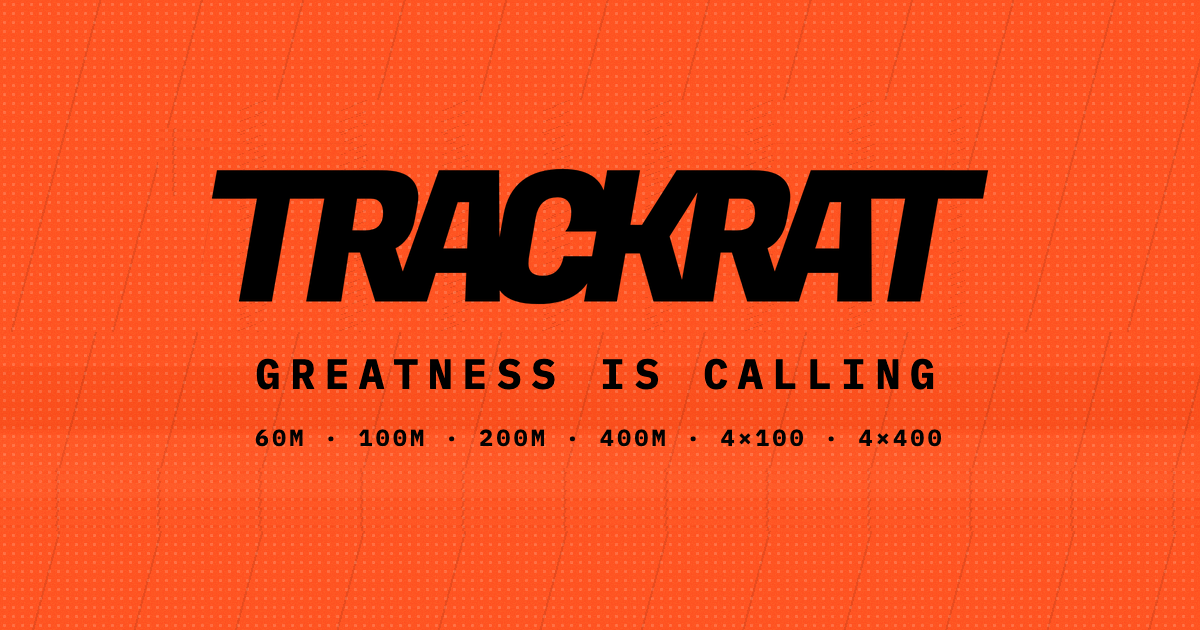
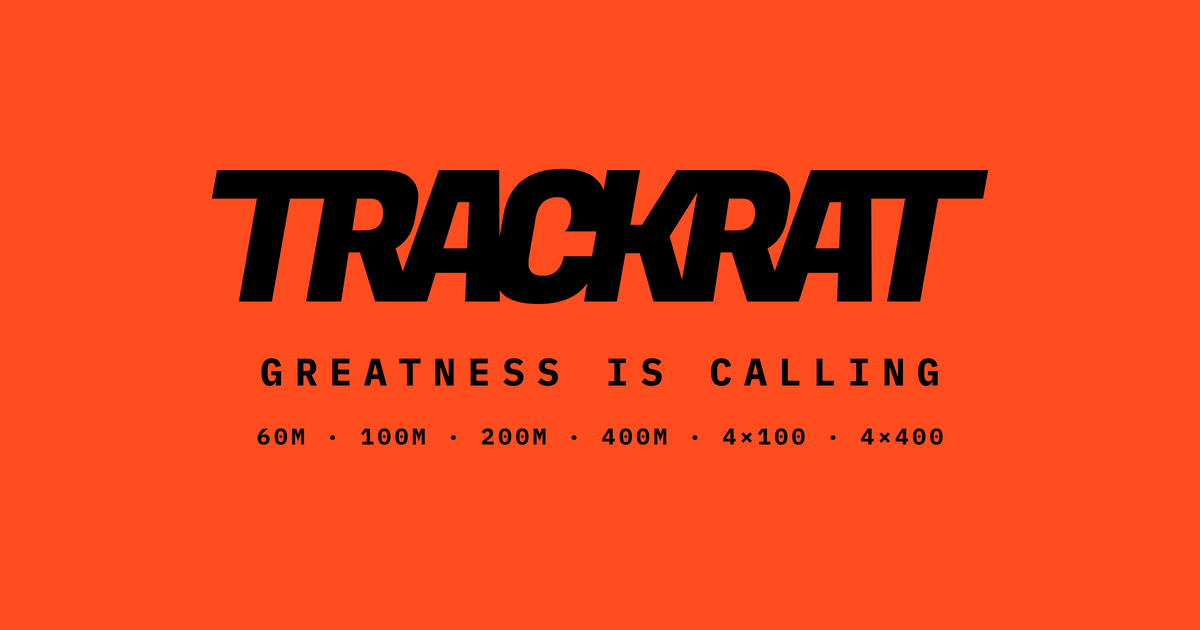
Two heats for every race over four entries, and a flat orange OG image
Heats used to start only once a race passed six lanes, which left five- and
six-entry fields running as one. Every race with more than four entries now
runs two, so only 200m men's, at three, stays single. Relays are unaffected:
they render through a separate path and never split.

Splits stay as even as the field allows rather than filling heat 1 and
stranding the remainder, so five becomes 3 and 2 and seven stays 4 and 3.
Above twelve entries the lane count takes over again.

The OG image is rebuilt rather than repainted. Its background was neither flat
nor Sprint Orange: of 13,833 background pixels sampled, four were #FF4D1F,
green ran 65..125 against a target of 77, and the top-left corner had drifted
to (255,106,63) under a dot grid and a vignette. Repainting could not separate
grid dots from type antialiasing, since both only darken the channel, so the
artwork is redrawn on a flat field and the wordmark comes from
trackrat-wordmark.svg rather than a re-render of the font.

Layout was measured off the old file and matched back to within a pixel: the
wordmark at y169 and 776px wide, the tagline at y358 and 676px, the events
line at y428 and 685px, all centred. Background is now 97.1% exactly #FF4D1F
with all four corners exact, and the file drops from 449KB to 23KB.

Changed region(s): [[0.0, 0.0, 1.0, 0.9952], [0.4625, 0.3619, 0.4933, 0.3921]]

diff --git a/invitational.html b/invitational.html
@@ -573,42 +573,58 @@
     <p class="sl-note sl-note-sm">HEATS ARE PROVISIONAL AND FINALIZED ON THE DAY OF THE RACE.</p>
     <div class="sl-grid">
       <div class="sl-race">
-        <h3>60M MEN&rsquo;S <span class="sl-count">5 OF 6</span></h3>
+        <h3>60M MEN&rsquo;S <span class="sl-count is-mark">2 HEATS</span></h3>
+        <p class="sl-team">HEAT 1 <span class="sl-count">3 OF 6</span></p>
         <ul>
           <li>Ankith Harathi</li>
           <li>Brandon Jones</li>
           <li>Paris Desean Odem</li>
+        </ul>
+        <p class="sl-team">HEAT 2 <span class="sl-count">2 OF 6</span></p>
+        <ul>
           <li>Rathu</li>
           <li>Rikin Tanna</li>
         </ul>
       </div>
       <div class="sl-race">
-        <h3>60M WOMEN&rsquo;S <span class="sl-count">6 OF 6</span></h3>
+        <h3>60M WOMEN&rsquo;S <span class="sl-count is-mark">2 HEATS</span></h3>
+        <p class="sl-team">HEAT 1 <span class="sl-count">3 OF 6</span></p>
         <ul>
           <li>Ashley Fairley</li>
           <li>Emily Knippa</li>
           <li>Lindsey Quebedeaux</li>
+        </ul>
+        <p class="sl-team">HEAT 2 <span class="sl-count">3 OF 6</span></p>
+        <ul>
           <li>Mandy Peña</li>
           <li>Natalie Woodham</li>
           <li>Ximena Ramos</li>
         </ul>
       </div>
       <div class="sl-race">
-        <h3>100M MEN&rsquo;S <span class="sl-count">5 OF 6</span></h3>
+        <h3>100M MEN&rsquo;S <span class="sl-count is-mark">2 HEATS</span></h3>
+        <p class="sl-team">HEAT 1 <span class="sl-count">3 OF 6</span></p>
         <ul>
           <li>Brandon Jones</li>
           <li>Paris Desean Odem</li>
           <li>Rathu</li>
+        </ul>
+        <p class="sl-team">HEAT 2 <span class="sl-count">2 OF 6</span></p>
+        <ul>
           <li>Rikin Tanna</li>
           <li>Tyriq Valentine</li>
         </ul>
       </div>
       <div class="sl-race">
-        <h3>100M WOMEN&rsquo;S <span class="sl-count">6 OF 6</span></h3>
+        <h3>100M WOMEN&rsquo;S <span class="sl-count is-mark">2 HEATS</span></h3>
+        <p class="sl-team">HEAT 1 <span class="sl-count">3 OF 6</span></p>
         <ul>
           <li>Ashley Fairley</li>
           <li>Emily Knippa</li>
           <li>Mandy Peña</li>
+        </ul>
+        <p class="sl-team">HEAT 2 <span class="sl-count">3 OF 6</span></p>
+        <ul>
           <li>Sarah Boyd</li>
           <li>Vanessa Bacorn</li>
           <li>Ximena Ramos</li>
@@ -639,11 +655,15 @@
         </ul>
       </div>
       <div class="sl-race">
-        <h3>400M MEN&rsquo;S <span class="sl-count">5 OF 6</span></h3>
+        <h3>400M MEN&rsquo;S <span class="sl-count is-mark">2 HEATS</span></h3>
+        <p class="sl-team">HEAT 1 <span class="sl-count">3 OF 6</span></p>
         <ul>
           <li>Bradley Gardner</li>
           <li>Cory Mull</li>
           <li>Michael Brown</li>
+        </ul>
+        <p class="sl-team">HEAT 2 <span class="sl-count">2 OF 6</span></p>
+        <ul>
           <li>Nicolas Sawyer</li>
           <li>Rathu</li>
         </ul>
